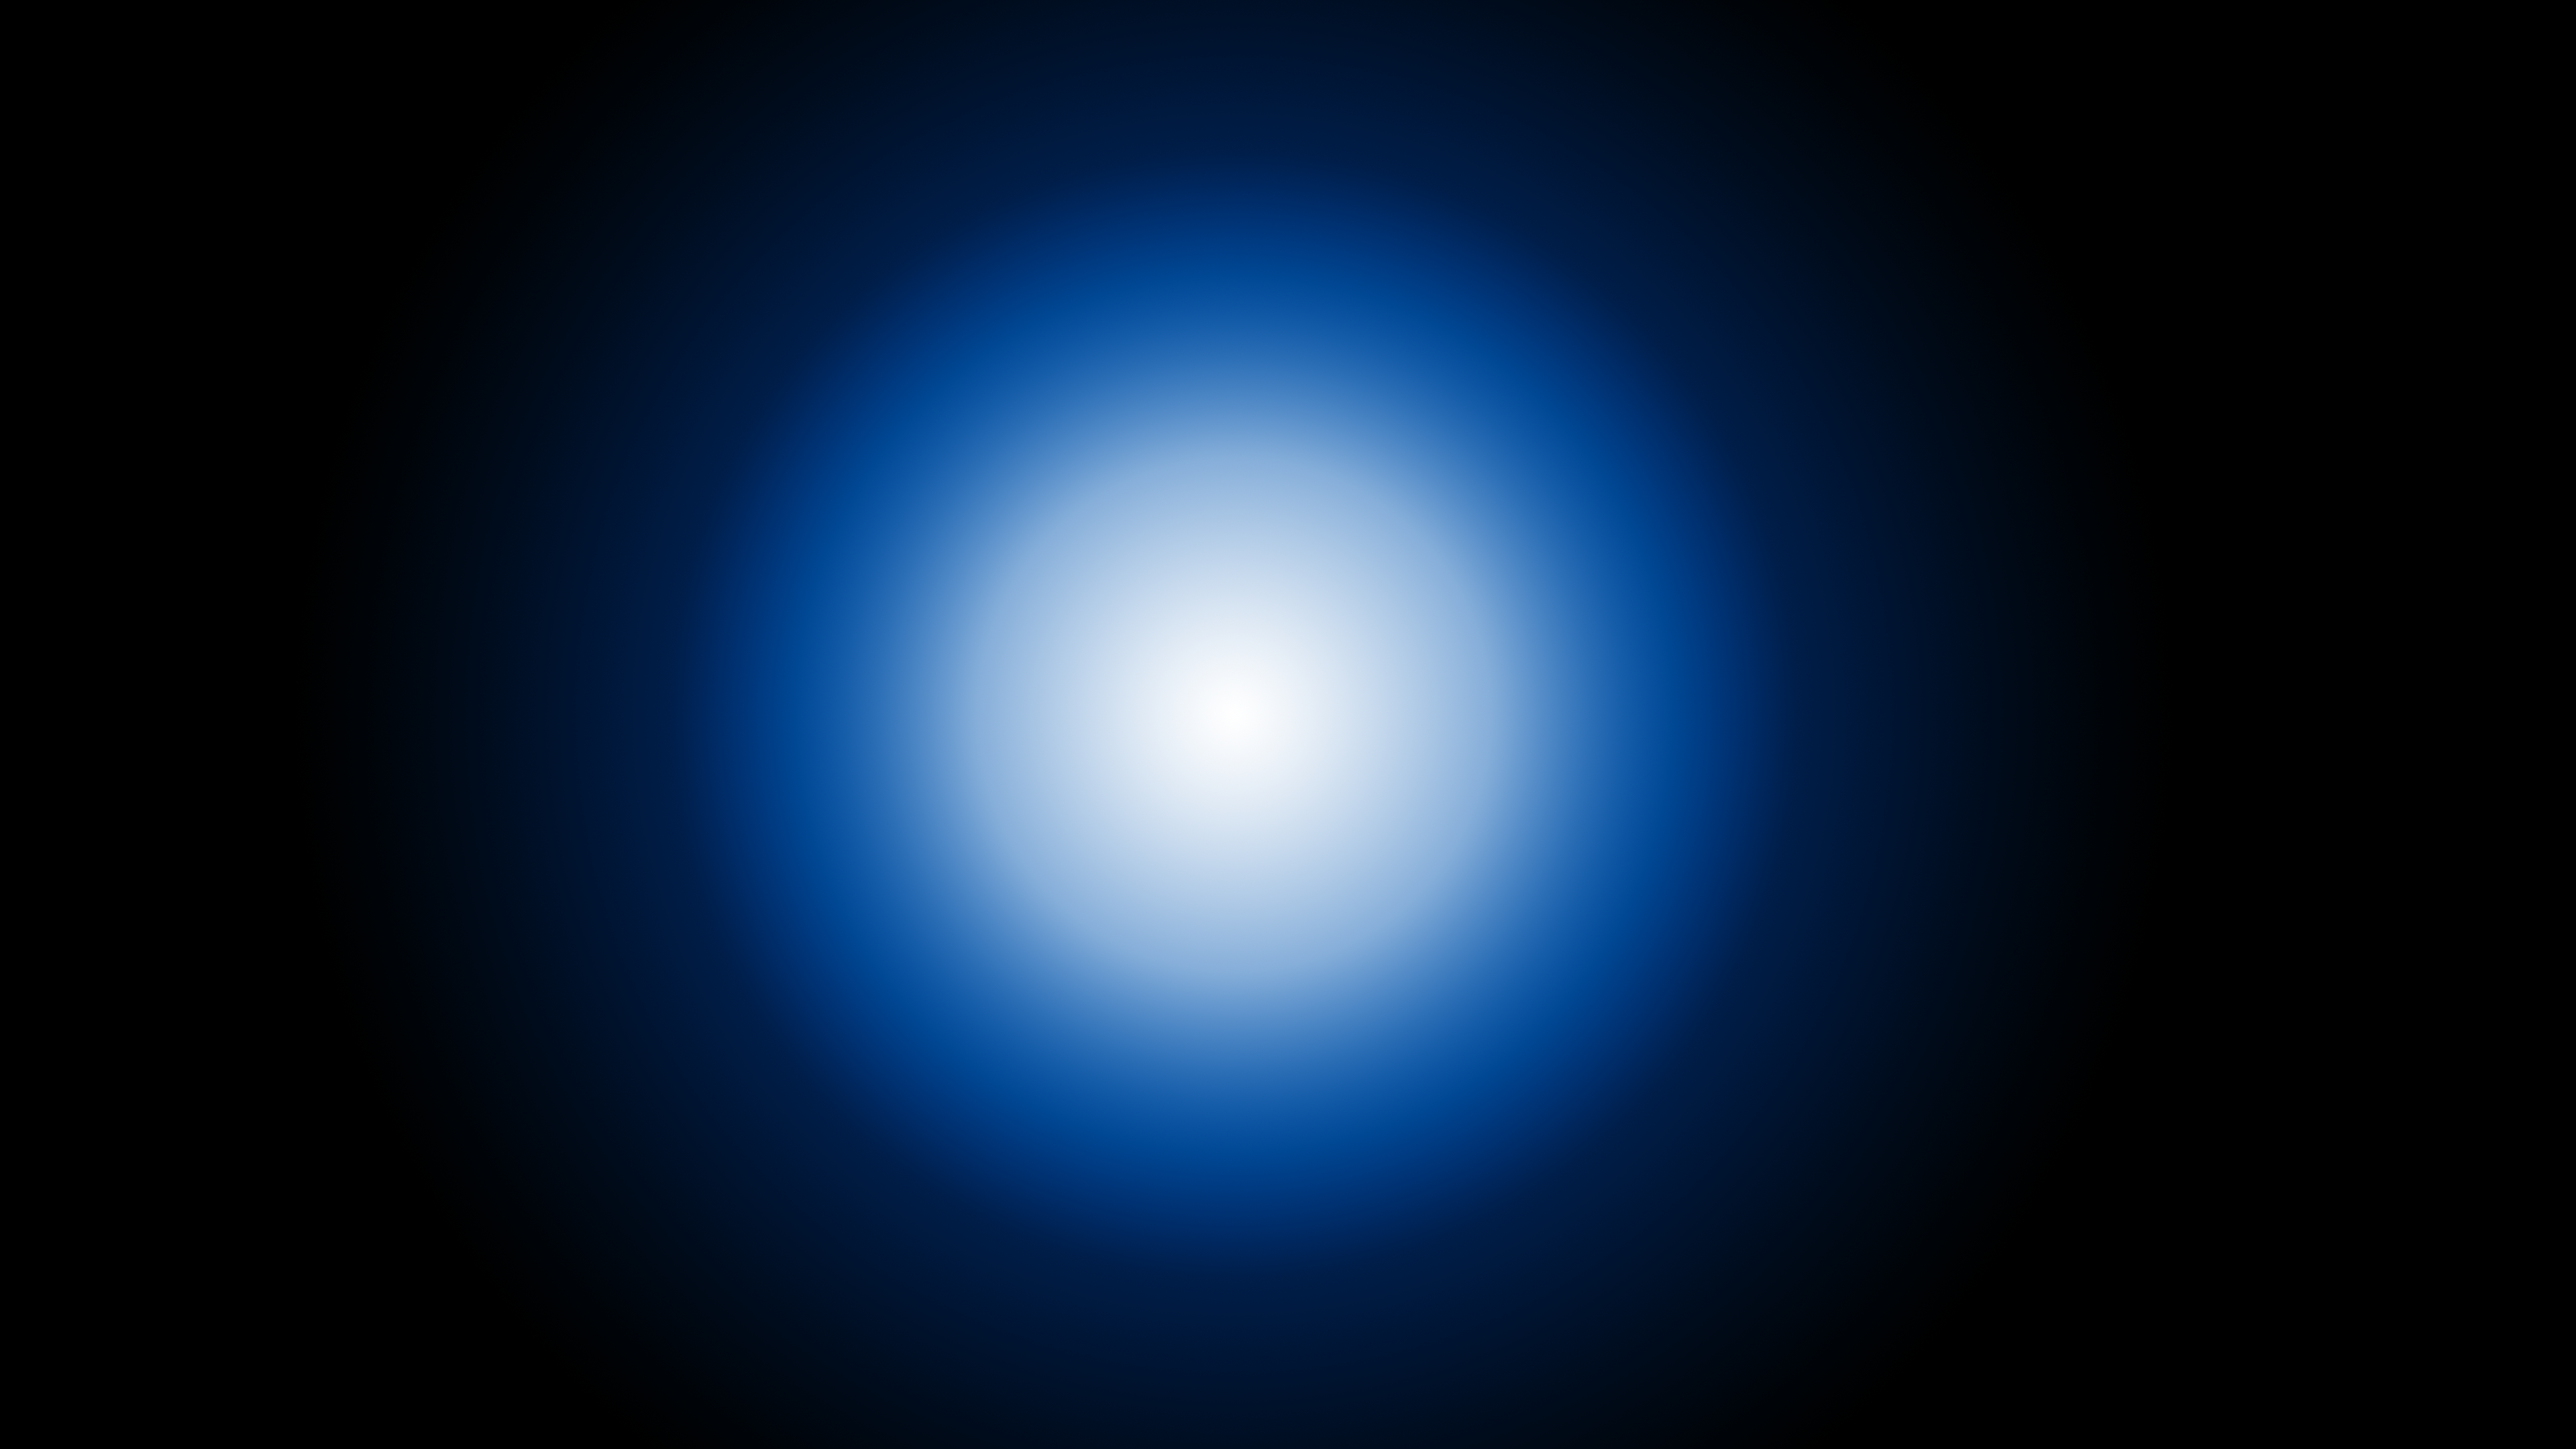
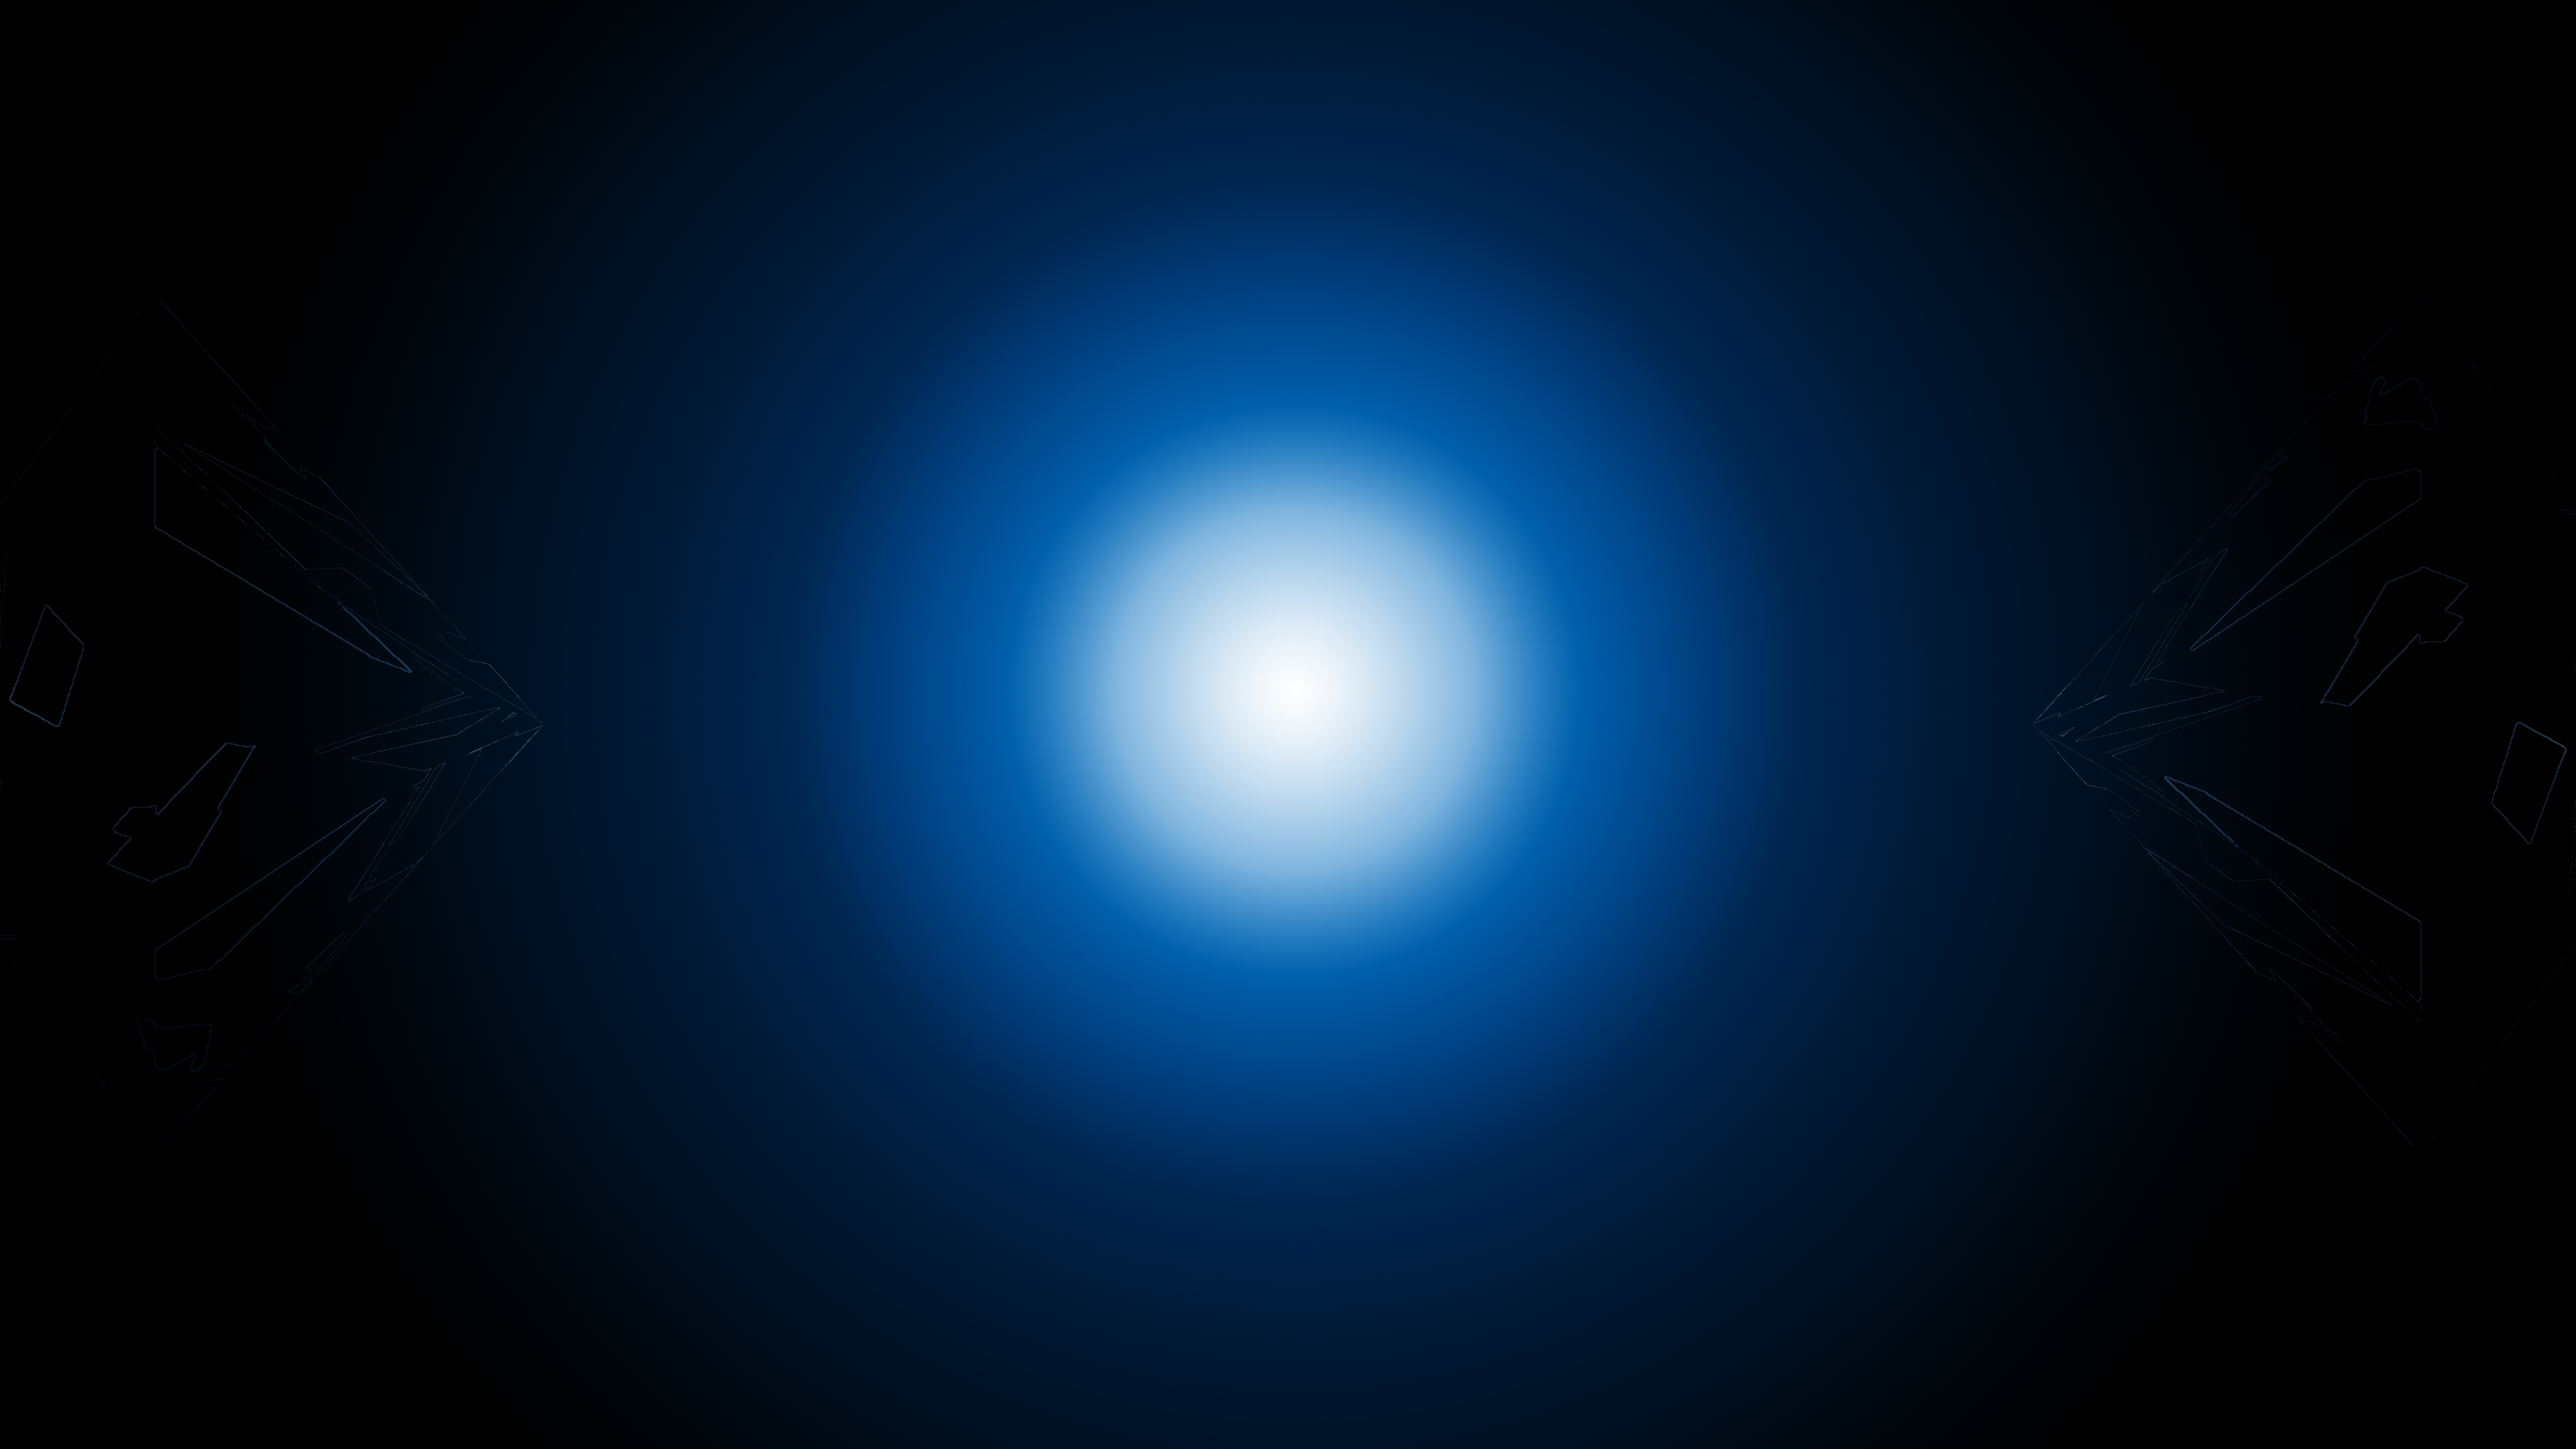
slight

Changed region(s): [[0.25, 0.1241, 0.6562, 0.8685]]

diff --git a/index.html b/index.html
@@ -3,11 +3,9 @@
 <html lang="en">
 <head>
   <meta charset="utf-8">
-
   <title>Nacci</title>
   <meta name="Games" content="BimpsIndustries">
   <meta name="author" content="SitePoint">
-
   <link rel="stylesheet" href="Main.css">
 
 </head>
@@ -22,40 +20,31 @@
     <a href="Games.html"style="color: white;">Games</a> <a href="Videos.html"style="color: white;">Videos</a> <a href="About.html"style="color: white;">About</a>
   </div>
 
-
-
 <div class="box"> <br>
 <h1 style="background: black; padding-top:3px; border-radius: 5px;"></h1>
       <h1 class="text" >Featured</h1>
-
       <div class="slideshow-container">
-
         <div class="Slides fade">
           <div class="numbertext">1 / 3</div>
           <img src="diugh/thumbnails/destruct1.png" style="width:100%">
           <div class="texti">Ingame</div>
         </div>
-
         <div class="Slides fade">
           <div class="numbertext">2 / 3</div>
           <img src="diugh\thumbnails\Destruct2.png" style="width:100%">
           <div class="texti">Fully destructible environment</div>
         </div>
-
         <div class="Slides fade">
           <div class="numbertext">3 / 3</div>
           <img src="diugh\thumbnails\Destruct3.png" style="width:100%">
           <div class="texti">Realtime shadows</div>
         </div>
-
         <div style="position: relative; right: 450px; top: -300px">
         <a class="previous" onclick="plusSlides(-1)">&#10094;</a>
         <a class="next" onclick="plusSlides(1)">&#10095;</a>
       </div>
       </div>
       <br>
-
-
       <div style="text-align:center">
         <span class="dot" onclick="currentSlide(1)"></span>
         <span class="dot" onclick="currentSlide(2)"></span>
@@ -63,12 +52,6 @@
       </div>
 </center>
 </div>
-
-
-
-
-
   <script src="Main.js"></script>
-
 </body>
 </html>

diff --git a/Main.css b/Main.css
@@ -1,7 +1,7 @@
 
 
 body {
-  background-image: url("diugh/Backdrop.png");
+  background-image: url("diugh/1Backdrop.png");
   background-repeat: no-repeat;
   background-size: cover;
   background-position: center;
